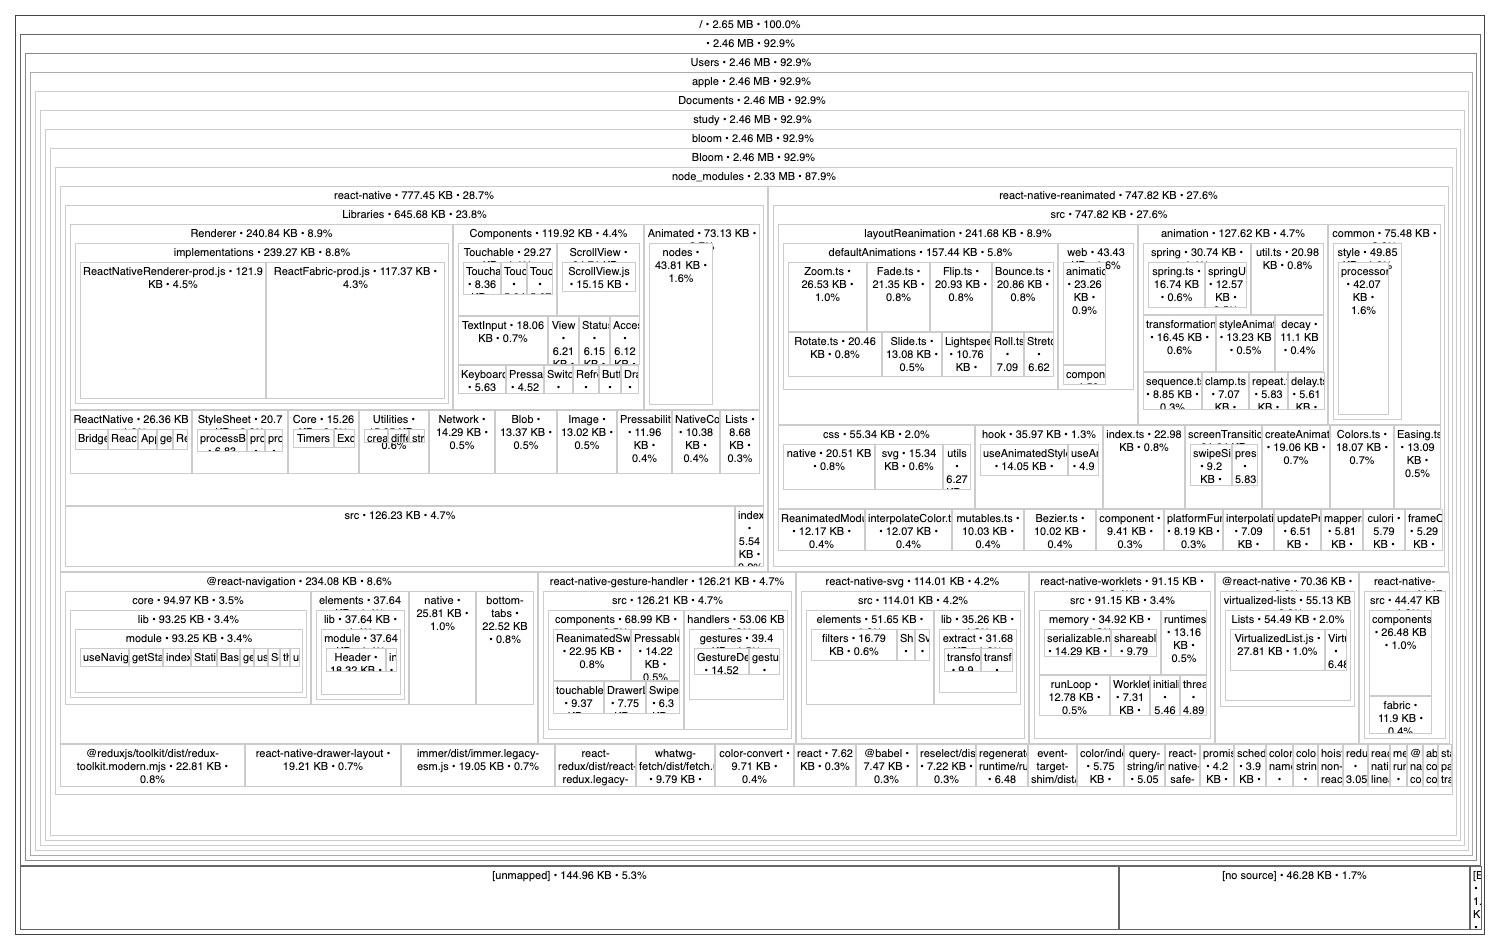
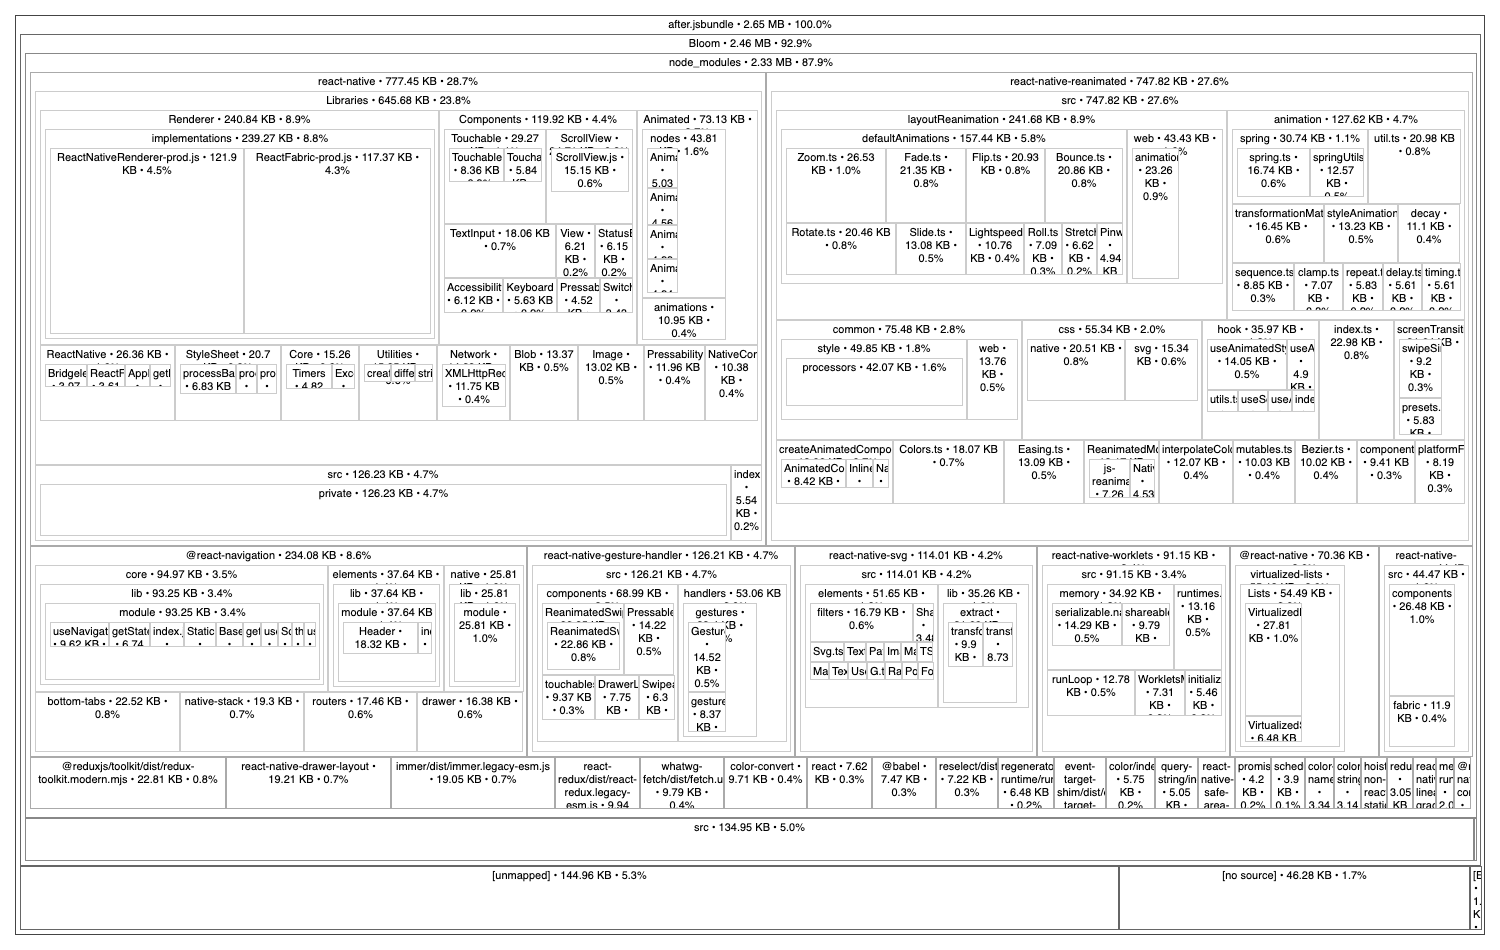
Re-root the bundle treemaps at the project
The screenshots showed six levels of the absolute path to the checkout
before reaching any project file, which wasted most of the image and put
a personal directory layout in the README.

Both treemaps now start at the project directory. Totals are unchanged
(4.41 MB before, 2.65 MB after) — only the redundant parent nodes are
gone. The reproduction command gains --sourcemap-sources-root so a fresh
run produces the same shape.

Changed region(s): [[0.0, 0.0, 0.9813, 0.9158], [0.6747, 0.0611, 0.828, 0.1221], [0.2147, 0.0611, 0.3067, 0.1221]]

diff --git a/README.md b/README.md
@@ -155,13 +155,15 @@ here, and no other dependency has a lighter equivalent:
 
 ```bash
 npx react-native bundle --platform ios --dev false --entry-file index.js \
-  --bundle-output /tmp/bloom.jsbundle --sourcemap-output /tmp/bloom.jsbundle.map
+  --bundle-output /tmp/bloom.jsbundle --sourcemap-output /tmp/bloom.jsbundle.map \
+  --sourcemap-sources-root "$PWD"
 
 npx source-map-explorer /tmp/bloom.jsbundle /tmp/bloom.jsbundle.map --no-border-checks --html
 ```
 
 `--no-border-checks` is required. Without it `source-map-explorer` fails on React Native bundles
-with *"source map refers to generated column Infinity"*.
+with *"source map refers to generated column Infinity"*. `--sourcemap-sources-root` keeps the
+treemap rooted at the project instead of nesting it under the absolute path to it.
 
 The 40% is off the JavaScript bundle. The installed app also contains native libraries and assets,
 so its total size drops by less.
